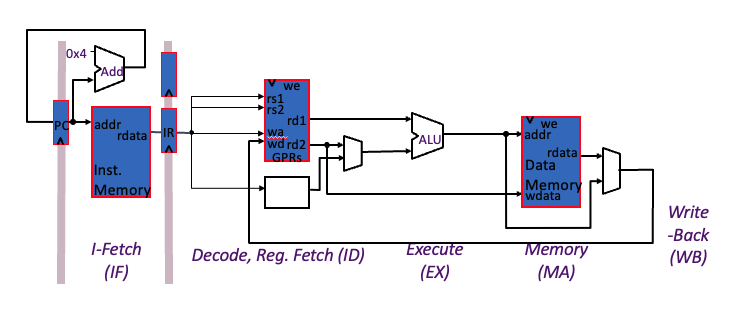
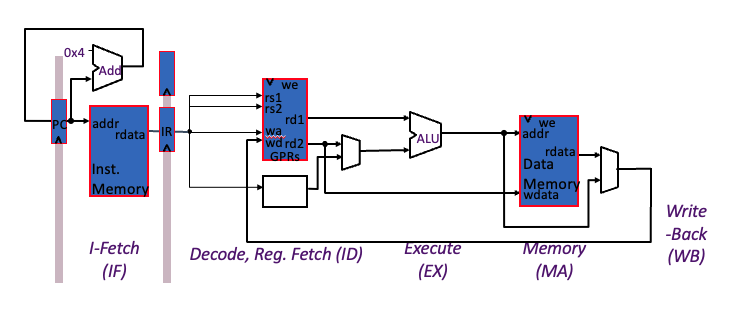
add pipelining labs

Changed region(s): [[0.0311, 0.061, 0.9635, 0.8841]]

diff --git a/labs/lab6-pipe2/README.md b/labs/lab6-pipe2/README.md
@@ -4,16 +4,30 @@ In this lab you will deal with branch instructions for the 2-stage pipelined pro
 
 ## Lab Questions
 ### Part 1 - Assembly Language (30%)
-Using the design and ```test1.s``` code from the previous lab, rewrite the sequence of
-instructions so that it is as compact as possible and uses a loop.
-Verify the operation of your program using the single cycle processor 
-originally provided.
+Using the design and ```firmware.s``` code from the previous lab,
+rewrite the sequence of instructions so that it is as compact as
+possible and uses a loop.  Verify the operation of your program
+using the single cycle processor originally provided.
 
-### Part 2 - Pipelined Processor (70%) 
-Draw a picture of a modified datapath which will allow branch instructions to also be pipelined. You are allowed to rewrite Part 1 so that pipeline bubbles are inserted to avoid control hazards (data hazards cannot occur because stage 2 of the pipeline cannot have RAW hazards), i.e. change the ISA so there is a branch delay slot.
-Modify the Verilog design in Part 2 of the previous lab so that the
-branch decision is moved to the second pipeline stage and the instruction in the branch delay slot is always executed. Explain in your lab book how the scheme works and illustrate it with an example and GTKWave screen shot.
-
-This is the scheme used in the [MIPS-I](https://en.wikipedia.org/wiki/MIPS_architecture) processor. Here is a section from wikipedia:
+### Part 2 - Pipelined Processor Datapath (20%) 
+A single branch delay slot is the scheme used in the [MIPS-I](https://en.wikipedia.org/wiki/MIPS_architecture) processor. Here is a section from wikipedia:
 
 *All MIPS I control flow instructions are followed by a branch delay slot. Unless the branch delay slot is filled by an instruction performing useful work, an nop is substituted. MIPS I branch instructions compare the contents of a GPR (rs) against zero or another GPR (rt) as signed integers and branch if the specified condition is true.*
+
+Draw a picture of a modified datapath which allows your pipelined
+processor to pipeline branches with a single delay slot.
+
+### Part 3 - Pipelined Processor (50%) 
+Modify the Verilog design in Part 2 of the previous lab so that the
+branch decision is moved to the second pipeline stage and the
+instruction in the branch delay slot is always executed. 
+
+Rewrite the ```firmware.s``` program so that it can execute in your
+pipelined processor with delay slot and fill it with a useful
+instruction.
+
+Explain in your lab book:
+ 1. how the scheme works
+ 2. changes in Verilog that were needed and 
+ 3. illustrate execution of ```firmware.s``` with a GTKWave screen shot.
+

diff --git a/labs/lab5-pipe1/README.md b/labs/lab5-pipe1/README.md
@@ -11,7 +11,7 @@ and terminal output.
 
 ## Lab Questions
 ### Part 1 - Datapath for Sequential Pipelined Execution (20%)
-The starting point for this lab is a lightly-modified version of the complete single-cycle [nerv processor](https://github.com/YosysHQ/nerv) in ```nervsc.sv``` (which stands for nerv single cycle). Note that this is a little more complex but not significantly different to the processors you have seen to date.
+The starting point for this lab is a lightly-modified version of the complete single-cycle [nerv processor](https://github.com/YosysHQ/nerv) in ```nerv.sv``` (which stands for nerv single cycle). Note that this is a little more complex but not significantly different to the processors you have seen to date.
 
 Draw the datapath of this processor and, in a table, describe the operation of each of the original and new control signals. Put this information in your lab book.
 
@@ -51,7 +51,7 @@ Modify the single cycle processor so that it implements a 2-stage pipeline as il
 
 Execute the shell command
 ```bash
-make nervsc.asc
+make nerv.asc
 ```
 
 This will first run [yosys](https://yosyshq.net/yosys/) which maps
@@ -61,7 +61,7 @@ route your design on the FPGA and determine the maximum clock
 frequency. The target platform is the [Lattice
 iCE40-HX8k](https://www.latticesemi.com/iCE40).
 
-Look in the ```nervsc-pnr.log``` file. The last part looks like this
+Look in the ```nerv-pnr.log``` file. The last part looks like this
 ```
 ...
 Info: 9.3 ns logic, 17.6 ns routing
@@ -103,7 +103,7 @@ Info: Program finished normally.
 The reported maximum clock frequency is 38.21 MHz. Also note that
 the routing delay is much higher than the logic delay - this is typical
 in an FPGA.
-Replace ```nervsc.sv``` with your pipelined design. What is the new clock
+Replace ```nerv.sv``` with your pipelined design. What is the new clock
 frequency?
 
 ### Part 4 - Placement of Pipeline Registers (30%)
@@ -116,6 +116,4 @@ Give the frequency achieved and include the changes to the original
 Verilog design and nextpnr log file as an appendix.
 Also give the reported clock frequency. 
 
-Your design for this part of the lab doesn't have to be simulated for correctness, this will be addressed in the assignment.
-
-
+Your design for this part of the lab does not need to be simulated for correctness, this will be addressed in the assignment.
